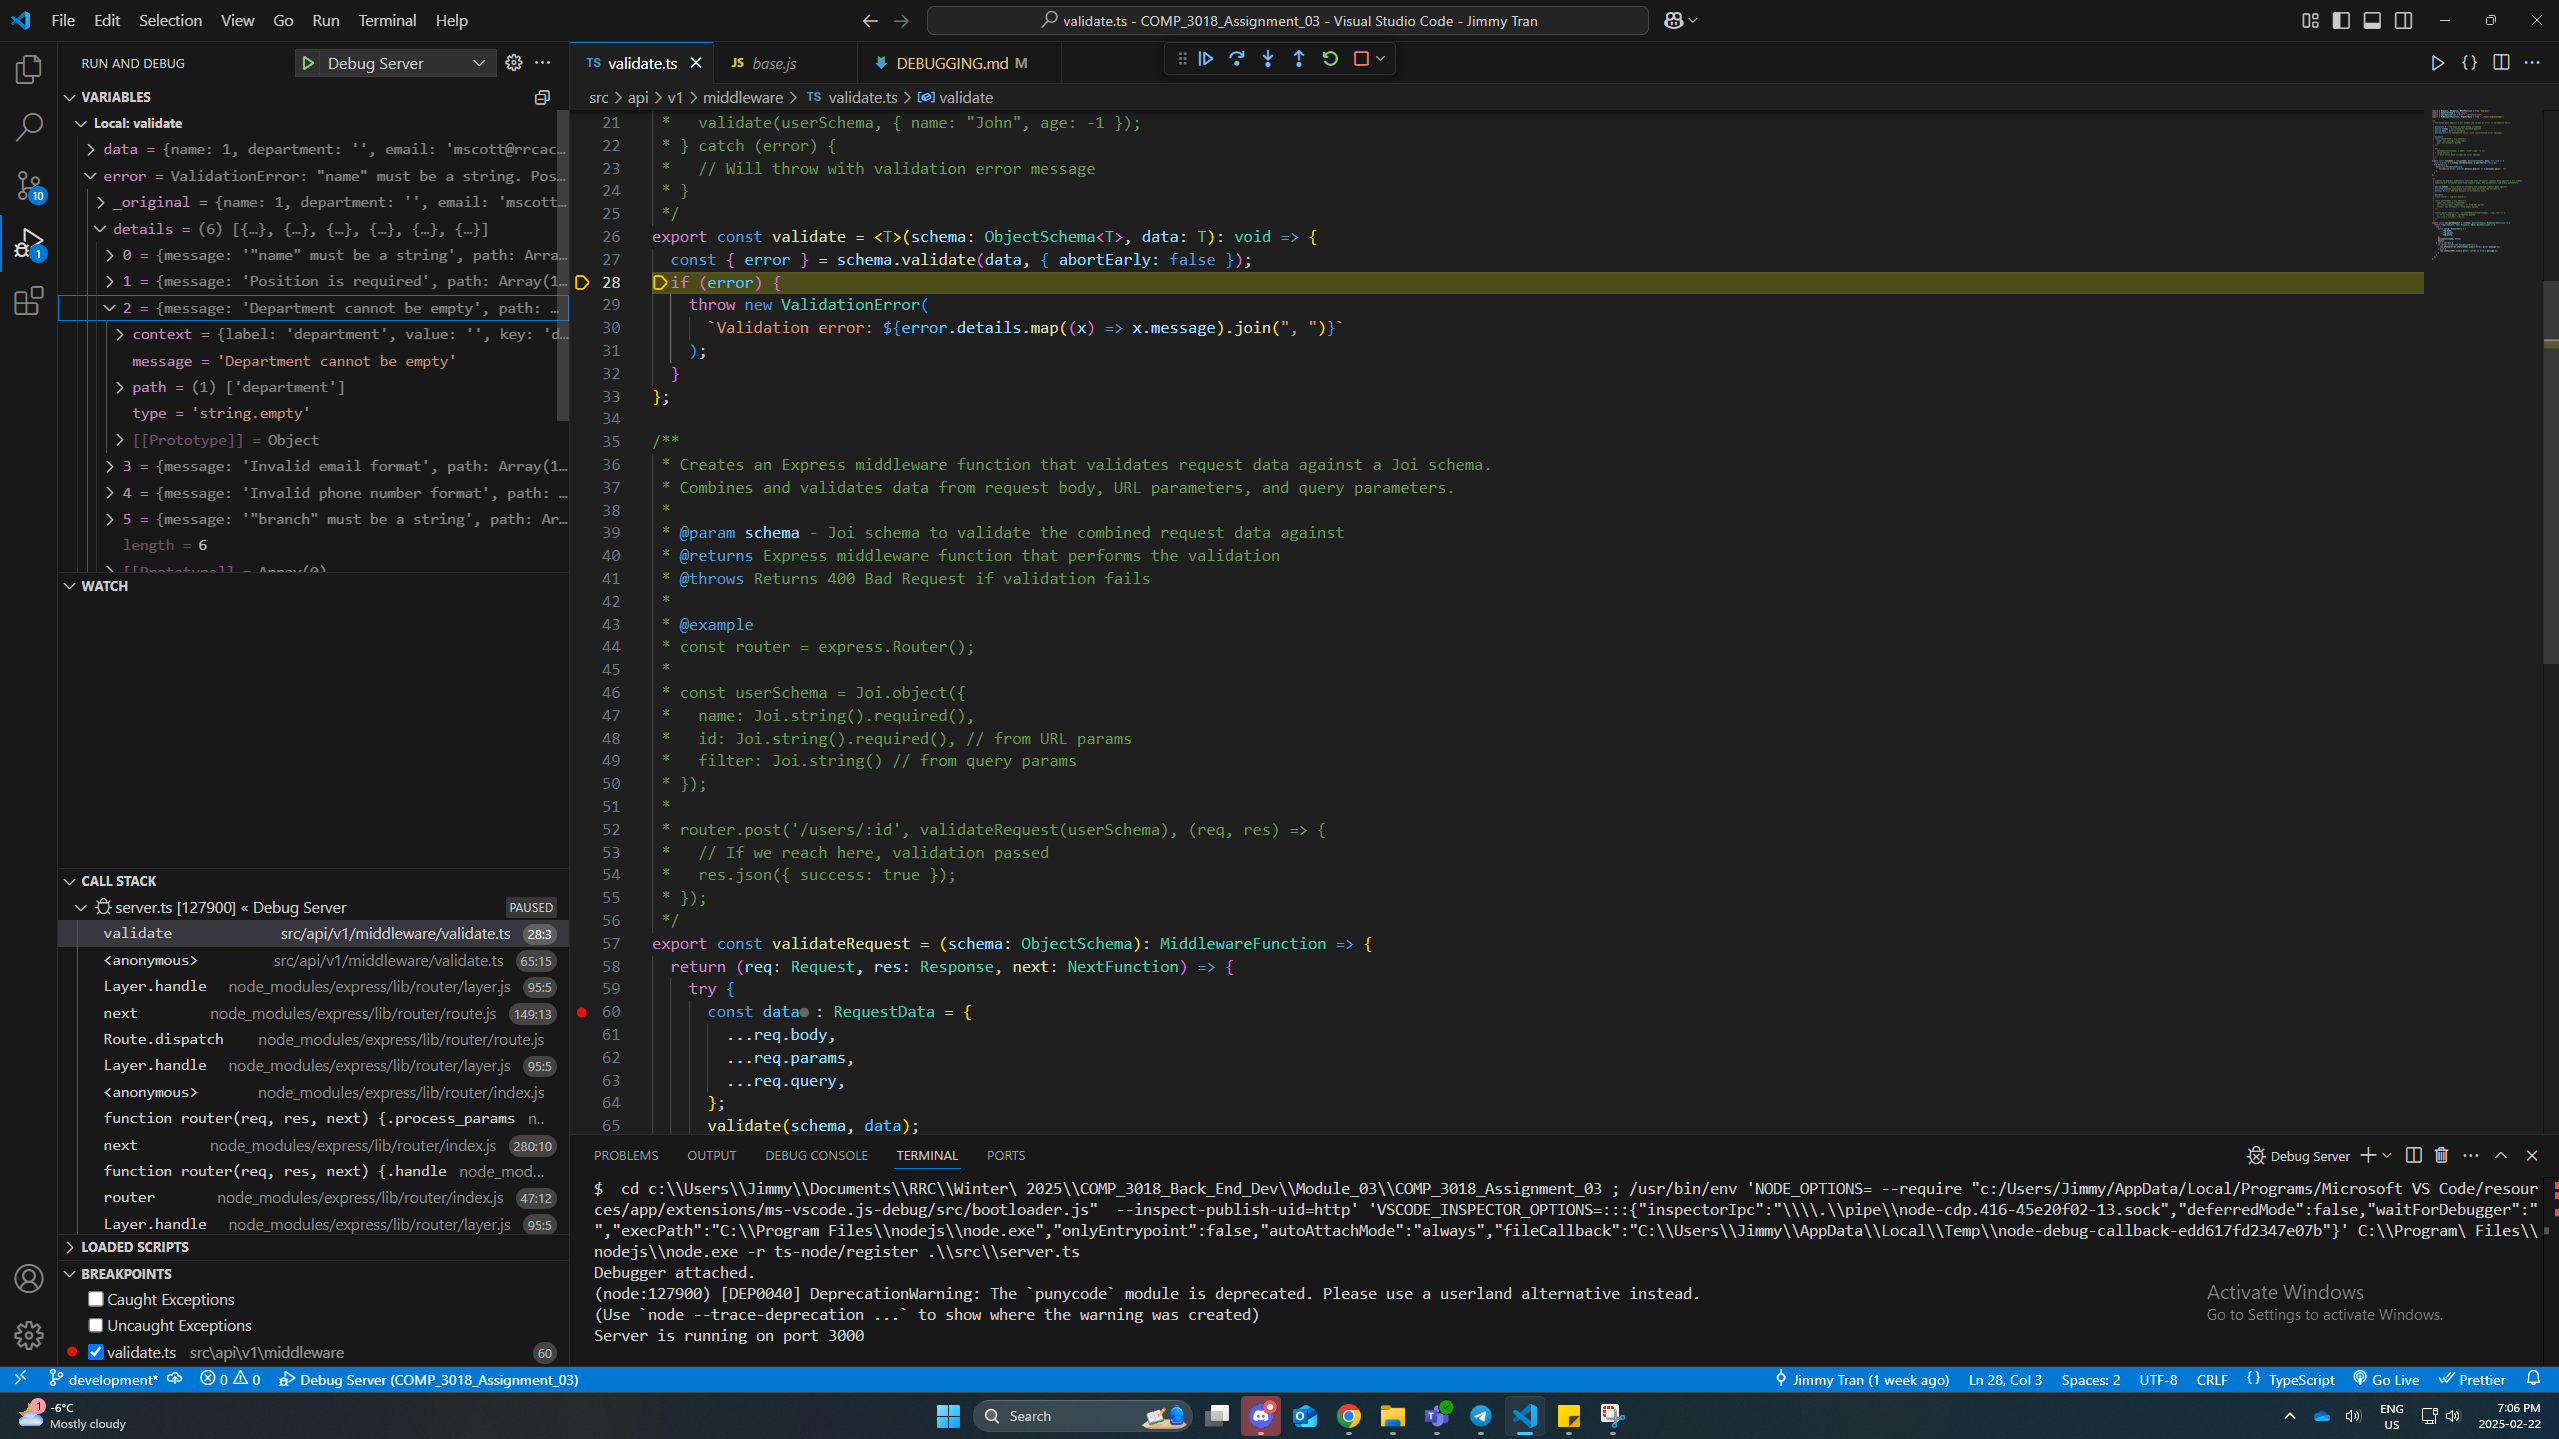
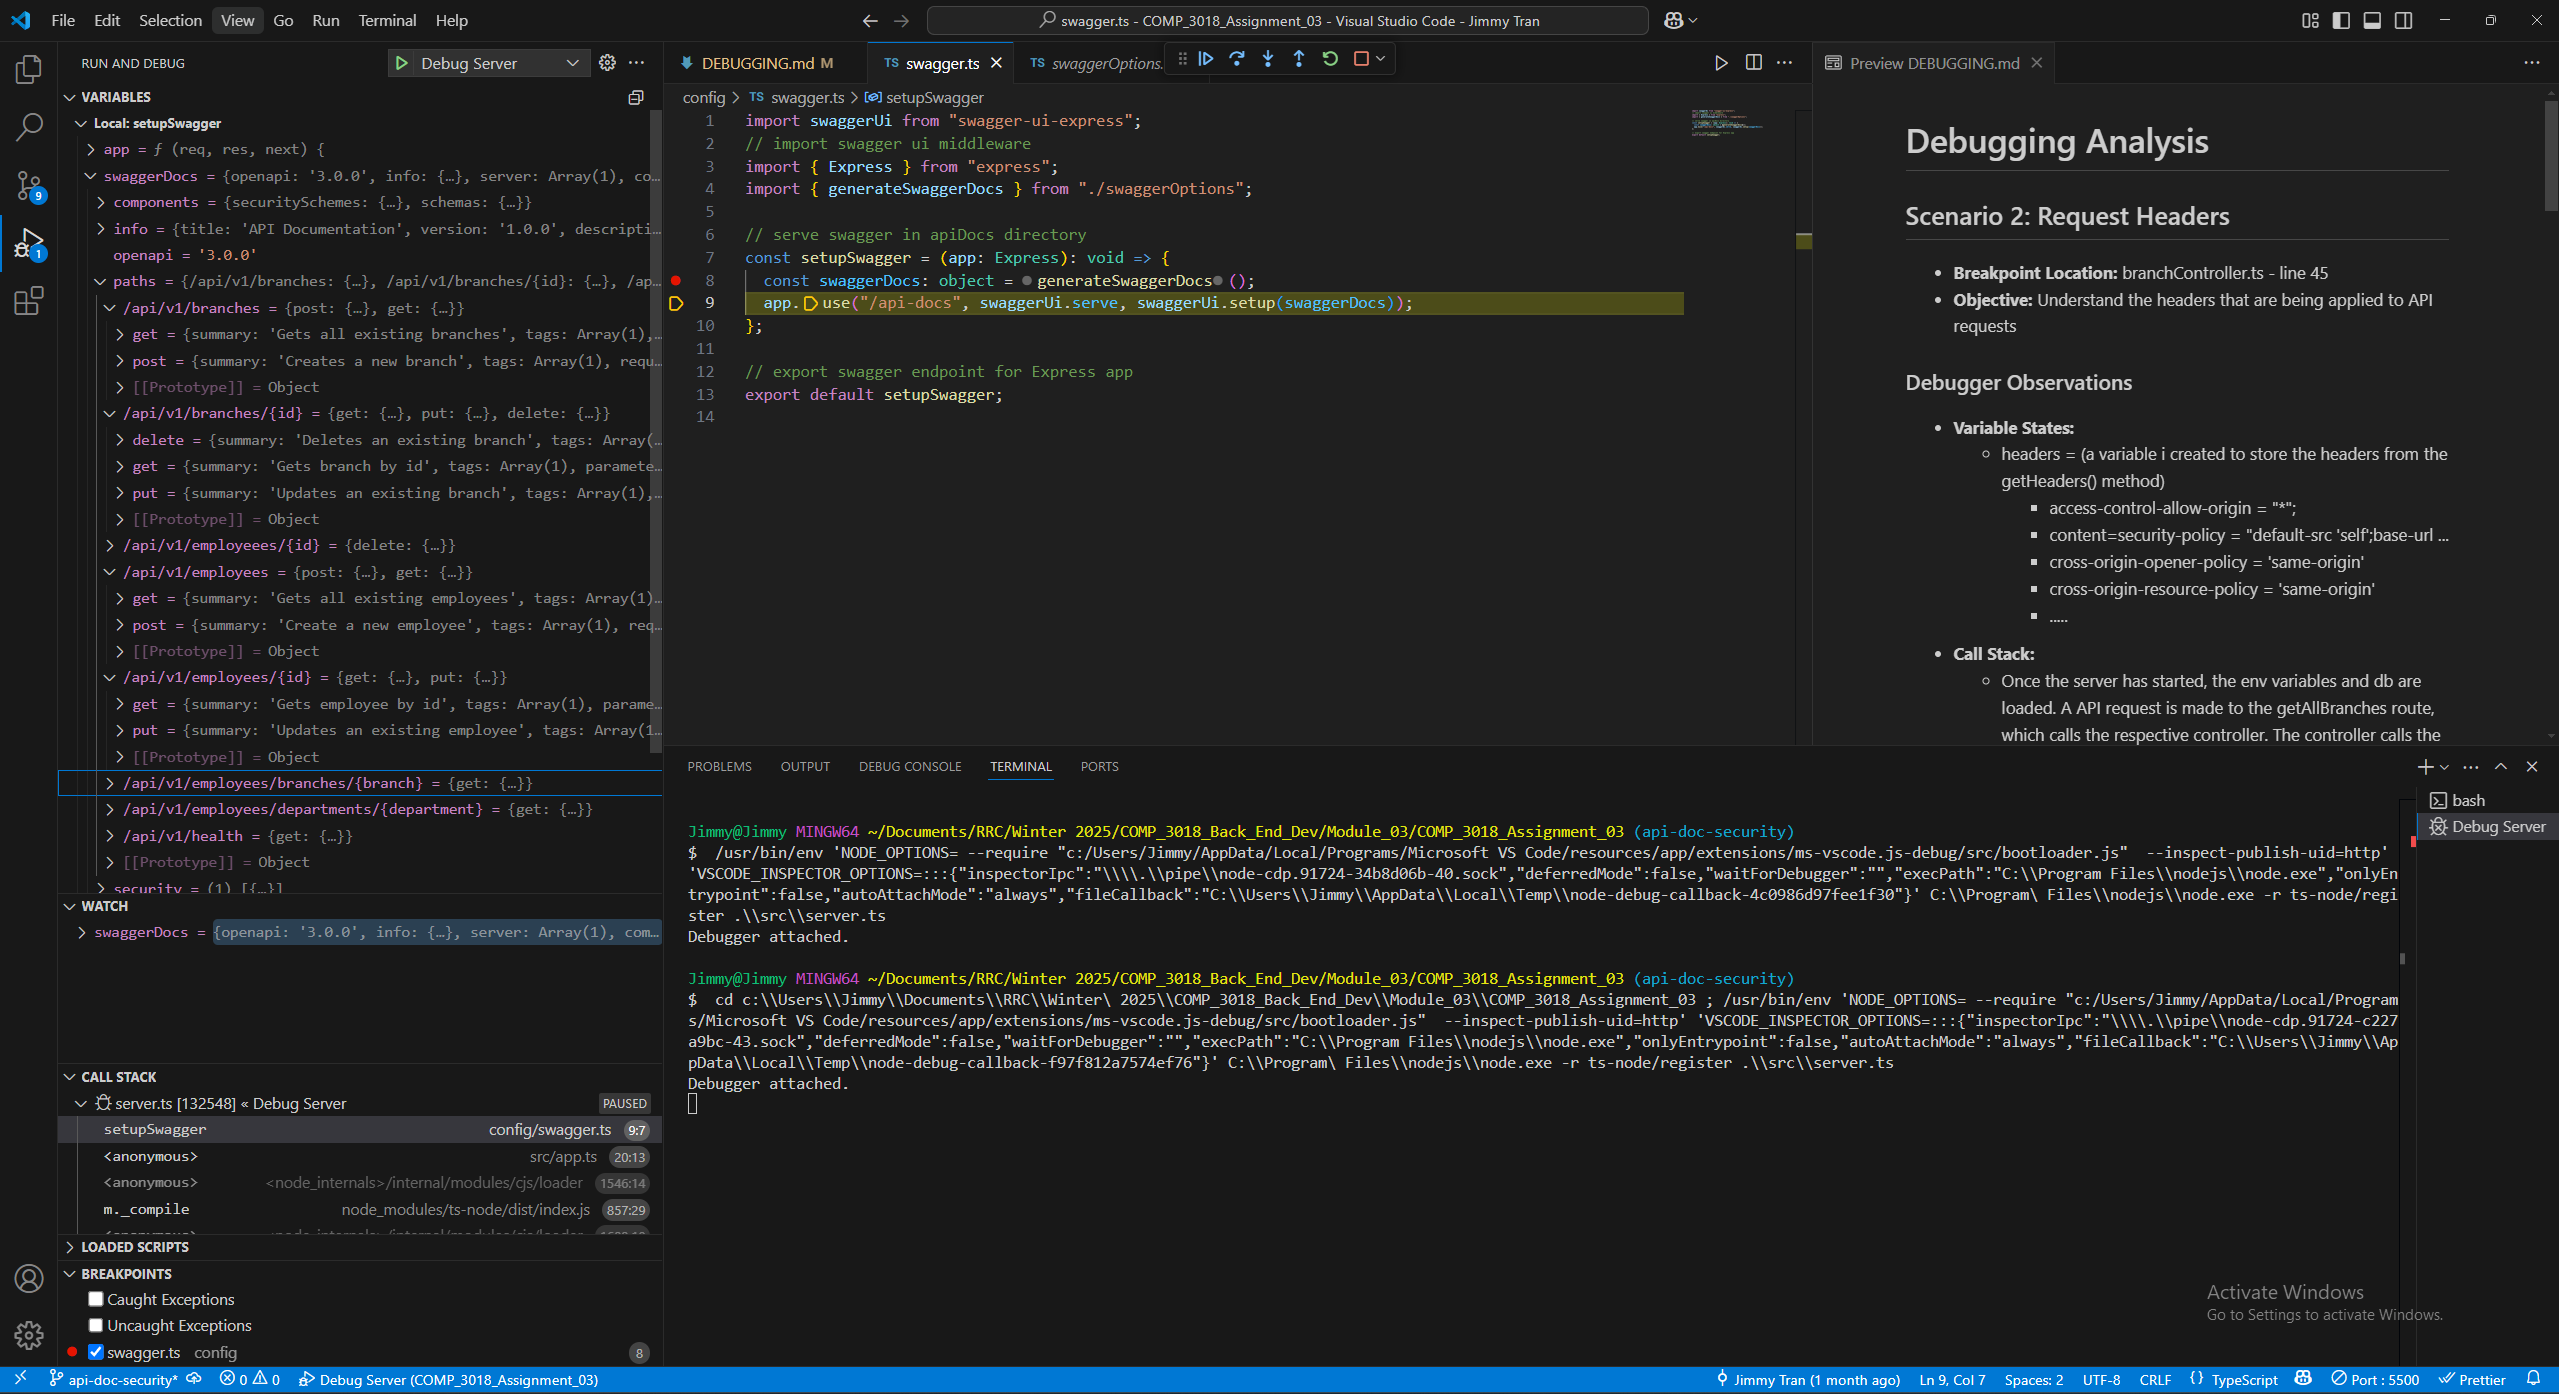
debugging analysis

diff --git a/debugging/DEBUGGING.md b/debugging/DEBUGGING.md
@@ -1,90 +1,56 @@
 # Debugging Analysis
 
-## Scenario 1: employee Schema failed validation
+## Scenario 2: Request Headers
 
-- **Breakpoint Location:** validate.ts - line 60
-- **Objective:** Try to understand how the validating middleware behaves, when running into data that doesnt pass validation
-
-### Debugger Observations
-
-- **Variable States:** data: contains data inputted, that is to be validated
-- Note: this data was modified to purposely fail validation
-- {
-  "name": 1,
-  "department": "",
-  "email": "mscott@rrcacademiccom",
-  "phone": "1231231231123123",
-  "branch": 5,
-  "birthday": "yes"
-  }
-  error: contains all the error message for each field that failed validation
-  details: (6) details concerning why the each field didnt pass
-- **Call Stack:** api request is made to create an employee, the route is called, but before the controller is called,
-  the validateRequest middleware is called with employeeSchema being passed to it. the data is given to the validate function as well as the schema
-- **Behavior:** a request is made to create an employee. the validate middleware is called. This is where the middleware "compares"
-  the data provided to create an employee, against the schema that was made. the validate function is called, where it checks for errors.
-  In this case there was errors, so it goes to the if block, where it throws errors.
-
-### Analysis
-
-- Something i learned in this scenario is how the validation middleware works and how it treats errors in the data provided, when the
-  data provided does not pass the employeeSchema i made.
-- Something that occurred that i did not expect, was that when i provided a field that, wasnt
-  part of the schema, like for example "birthday", i got an error message that wasnt part of the schema. "\"birthday\" is not allowed".
-  Im guessing this is something that is built in Joi for when someone adds a field that isnt expected in the schema.
-- i think that if i were to improve the code, i would add different schemas for different services/requests. For example,
-  an updateEmployeeSchema, that way, someone updating an employee could would
-  be validated against different "criteria"
-- This helped me understand the functionality of middleware, and how schemas work
-
-## Scenario 2: errorHandler middleware format error
-
-- **Breakpoint Location:** errorHandler.ts - line 63
-- **Objective:** understand how the errorhandler middleware handles making the error messages
-
-### Debugger Observations
-
-- **Variable States:** err.code, err.name, err.statusCode, err.message
-- **Call Stack:** an api request was made to get a branch with a specific ID, in this scenario, the ID does not exist.
-  The controller is called, which calls the respective service, where an error is thrown since the ID does exist.
-  The error handling middleware checks if the error is of a certain type, in this case ServiceError, and formats
-  the error message.
-- **Behavior:** At this point in the program, an error was encountered and was thrown, which is now being handled
-  by the error handling middleware. The if block checks if the error thrown is one of the types, which it is. It
-  then formats the error message according to the errorResponse model.
-
-### Analysis
-
-- From this scenario I learned about the behavior of the error handling middleware when it recieves and error to be formatted,
-  and what variables it keeps track of.
-- Some unexpected behavior that i observed was that when an error was found, and I used the debugger to step into, and step over
-  to navigate through, the request actually threw the RepositoryError inside firestoreRepository.ts, before moving on to
-  throw the ServiceError in the branchService.ts
-- Im not sure about refactoring the code, but this scenario and the unexpected behavior makes me wonder if having the
-  getBranchById service (this includes the rest of the services too) wrapped in a try-catch is even necessary since the repository
-  will just catch the error instead, and throw a RepositoryError.
-
-## Scenario 3: getAllBranches
-
-- **Breakpoint Location:** branchServices.ts - line 58
-- **Objective:** how the getAllBranches service interacts with the firestoreRepo, and how a successResponse done
+- **Breakpoint Location:** branchController.ts - line 45
+- **Objective:** Understand the headers that are being applied to API requests
 
 ### Debugger Observations
 
 - **Variable States:**
-- data = (3) - contains the 3 branches with their info
-- successResponse message and status
-- **Call Stack:** an api request is made to retrieve all branches in the database. the controller calls the service, which calls
-  the repository layer. The repo returns the data to the service. On a successful retrieve the controller takes the branches, which
-  is returned to the client in a formatted success response.
-- **Behavior:** At this point, the function has retrieved all branches from the firestore snapshot, and returned the data
-  as a Branch, and the controller has resolved the data in JSON formatted successResponse
+  - headers = (a variable i created to store the headers from the getHeaders() method)
+    - access-control-allow-origin = "\*";
+    - content=security-policy = "default-src 'self';base-url ...
+    - cross-origin-opener-policy = 'same-origin'
+    - cross-origin-resource-policy = 'same-origin'
+    - .....
+- **Call Stack:**
+  - Once the server has started, the env variables and db are loaded. A API request is made to the getAllBranches route, which calls the respective controller. The controller calls the respective service. A response is recieved, where I use the getHeaders method on the "res" to view the headers that have been attached.
+- **Behavior:**
+  - The getAllBranches API request has been made, and headers have been attached. They are stored in the "headers" constant i defined which uses the getHeaders() method. The response has a response code and formatted success response containing all the branches retrieved.
 
 ### Analysis
 
-- From this debugging scenario i learned more indepth as to the order/sequence of different parts of the program such as the services, controllers, and
-  middleware, in the event of a request that was made that does NOT result in an error, but rather a success.
-- There was no unexpected behavior, I was just able to get a clearer idea as to the order/sequence of how things worked.
+- What did you learn from this scenario?
+  - I learned all the headers that are actually attached to the outgoing response. Their names and what values they are set to. As for what they all do i am not entirely sure, will require further research.
+- Did you observe any unexpected behavior? If so, what might be the cause?
+  - Something unexpected i observed was the header: access-control-allow-origin = "\*". From some googling, this means any domain is allowed to access the API. Since I havent changed any of the configurations for packages, that means these are the default settings. This makes the API more vulnerable, since anyone can access it. Fortunately this API doesnt hold incredibly sensitive information, and there isnt really any harm that can done from accessing it, I just was not expecting that to be the default setting. I was expecting the default setting to maybe only allow THIS source to access it initially. If this API DID have sensitive info, that could be dangerous.
+- Are there areas for improvement or refactoring in this part of the code?
+  - As for areas of improvement, the current implementation of helmet for this api just uses the default configuration. There is likely a way i could change the configuration to whatever suites the API (or any future API) best.
+
+## Scenario 3: Environment Variables
+
+- **Breakpoint Location:** firebaseConfig.ts - line 27
+- **Objective:** Trying to check if environment variables are properly set and retrieved
+
+### Debugger Observations
+
+- **Variable States:**
+  - FIREBASE_CLIENT_EMAIL = "firebase-adminsdk-fbsvc@comp-3018-assignment-3.iam.gserviceaccount.com"
+  - FIREBASE_PRIVATE_KEY = "-----BEGIN PRIVATE KEY-----......."
+  - FIREBASE_PROJECT_ID = "comp-3018-assignment-3"
+- **Call Stack:**
+  - The server starts, which starts server.ts, which server loads app. When app.ts is called, the environment variables are loaded "dotenv.config()" which then the routes for branches and employees are loaded, through the controllers and services, is where firestore is loaded which uses the environment variables.
+- **Behavior:**
+  - At this point in the program, the environment varibles we set in .env are retrieved, and passed to a ServiceAccount type where it uses the credentials to initialize an app if one has not already been initialized. Otherwise, if an app already has been initialized, it just passes that existing app.
+
+### Analysis
+
+- What did you learn from this scenario?
+  - I learned the flow/sequence of events that occurs when the server starts and firestore tries to load using the environment variables that we set
+- Did you observe any unexpected behavior? If so, what might be the cause?
+  - There was no unexpected behavior, the environment variables loaded properly and the rest of the application functioned properly.
+- Are there areas for improvement or refactoring in this part of the code?
+  - If i were to improve this code, I could add some validation to the environment variables, so that it checks if the environment varibles provided follow the correct format to be even used. We already check if the variables exist in the if block (which we throw an error for), but we dont check formatting or type.
 - How does this enhance your understanding of the overall project?
-  Understanding how the different parts interact and handle the data. It clarified the flow from request, route, middleware and controllers, and services.
-- Understanding more clearly the flow of the program will allow me to better pin point where an issue is occuring, and allow me to debug more effectively.
+  - As i mentioned, it made more clear as the flow of what happens whenever i type "npm start", and the application starts. This also made it more clear to me as to how someone else can use this application for themselves. They can just clone this repo, and set the .env to their own credentials.
